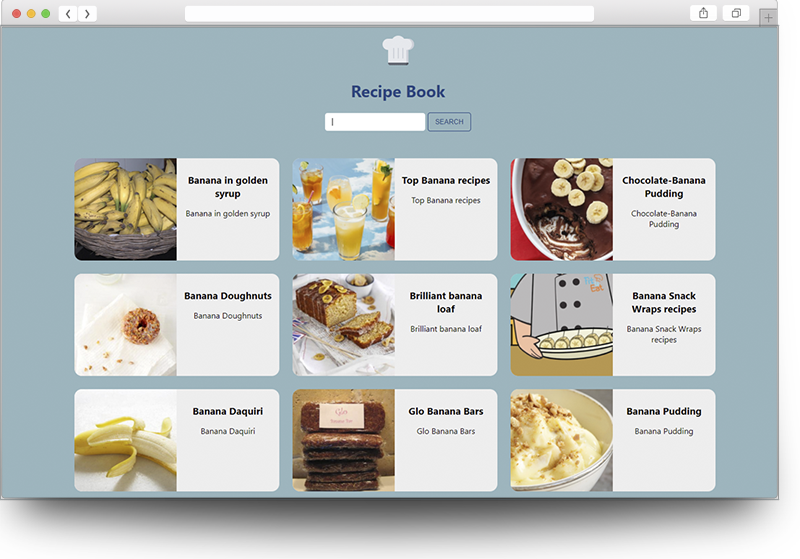
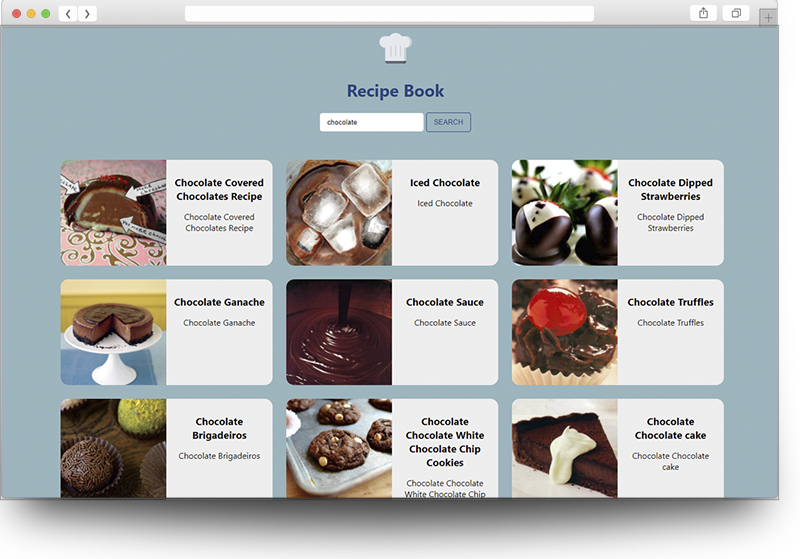
Thumbnail Changed

diff --git a/src/App.js b/src/App.js
@@ -11,7 +11,7 @@ const App = () => {
 
   const [recipes, setRecipes] = useState([]);
   const [search, setSearch] = useState("")
-  const [query, setQuery] = useState("banana");
+  const [query, setQuery] = useState("chocolate");
 
   const getRecipes = async () => {
     const response = await fetch(`https://api.edamam.com/search?q=${query}&app_id=${API_ID}&app_key=${API_KEY}`);
